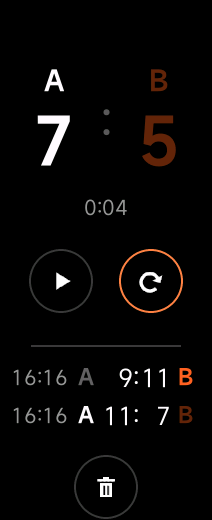
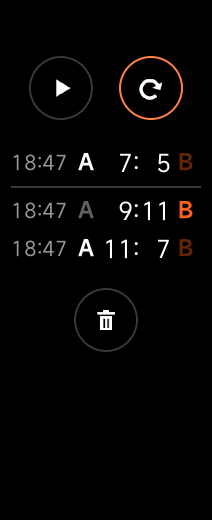
update screenshots

diff --git a/scripts/screenshots.js b/scripts/screenshots.js
@@ -27,7 +27,7 @@ const LABEL_B = [106, 480]
 const BG_A = [20, 210]
 const BG_B = [20, 330]
 const FINISH = [159, 260]
-const NEW_GAME = [151, 280]
+const NEW_GAME = [151, 88]
 
 // Плитки экранов выбора
 const colorCell = (row, col) => [36 + col * 70, 151 + row * 134] // цвет цифр: 3 столбца
